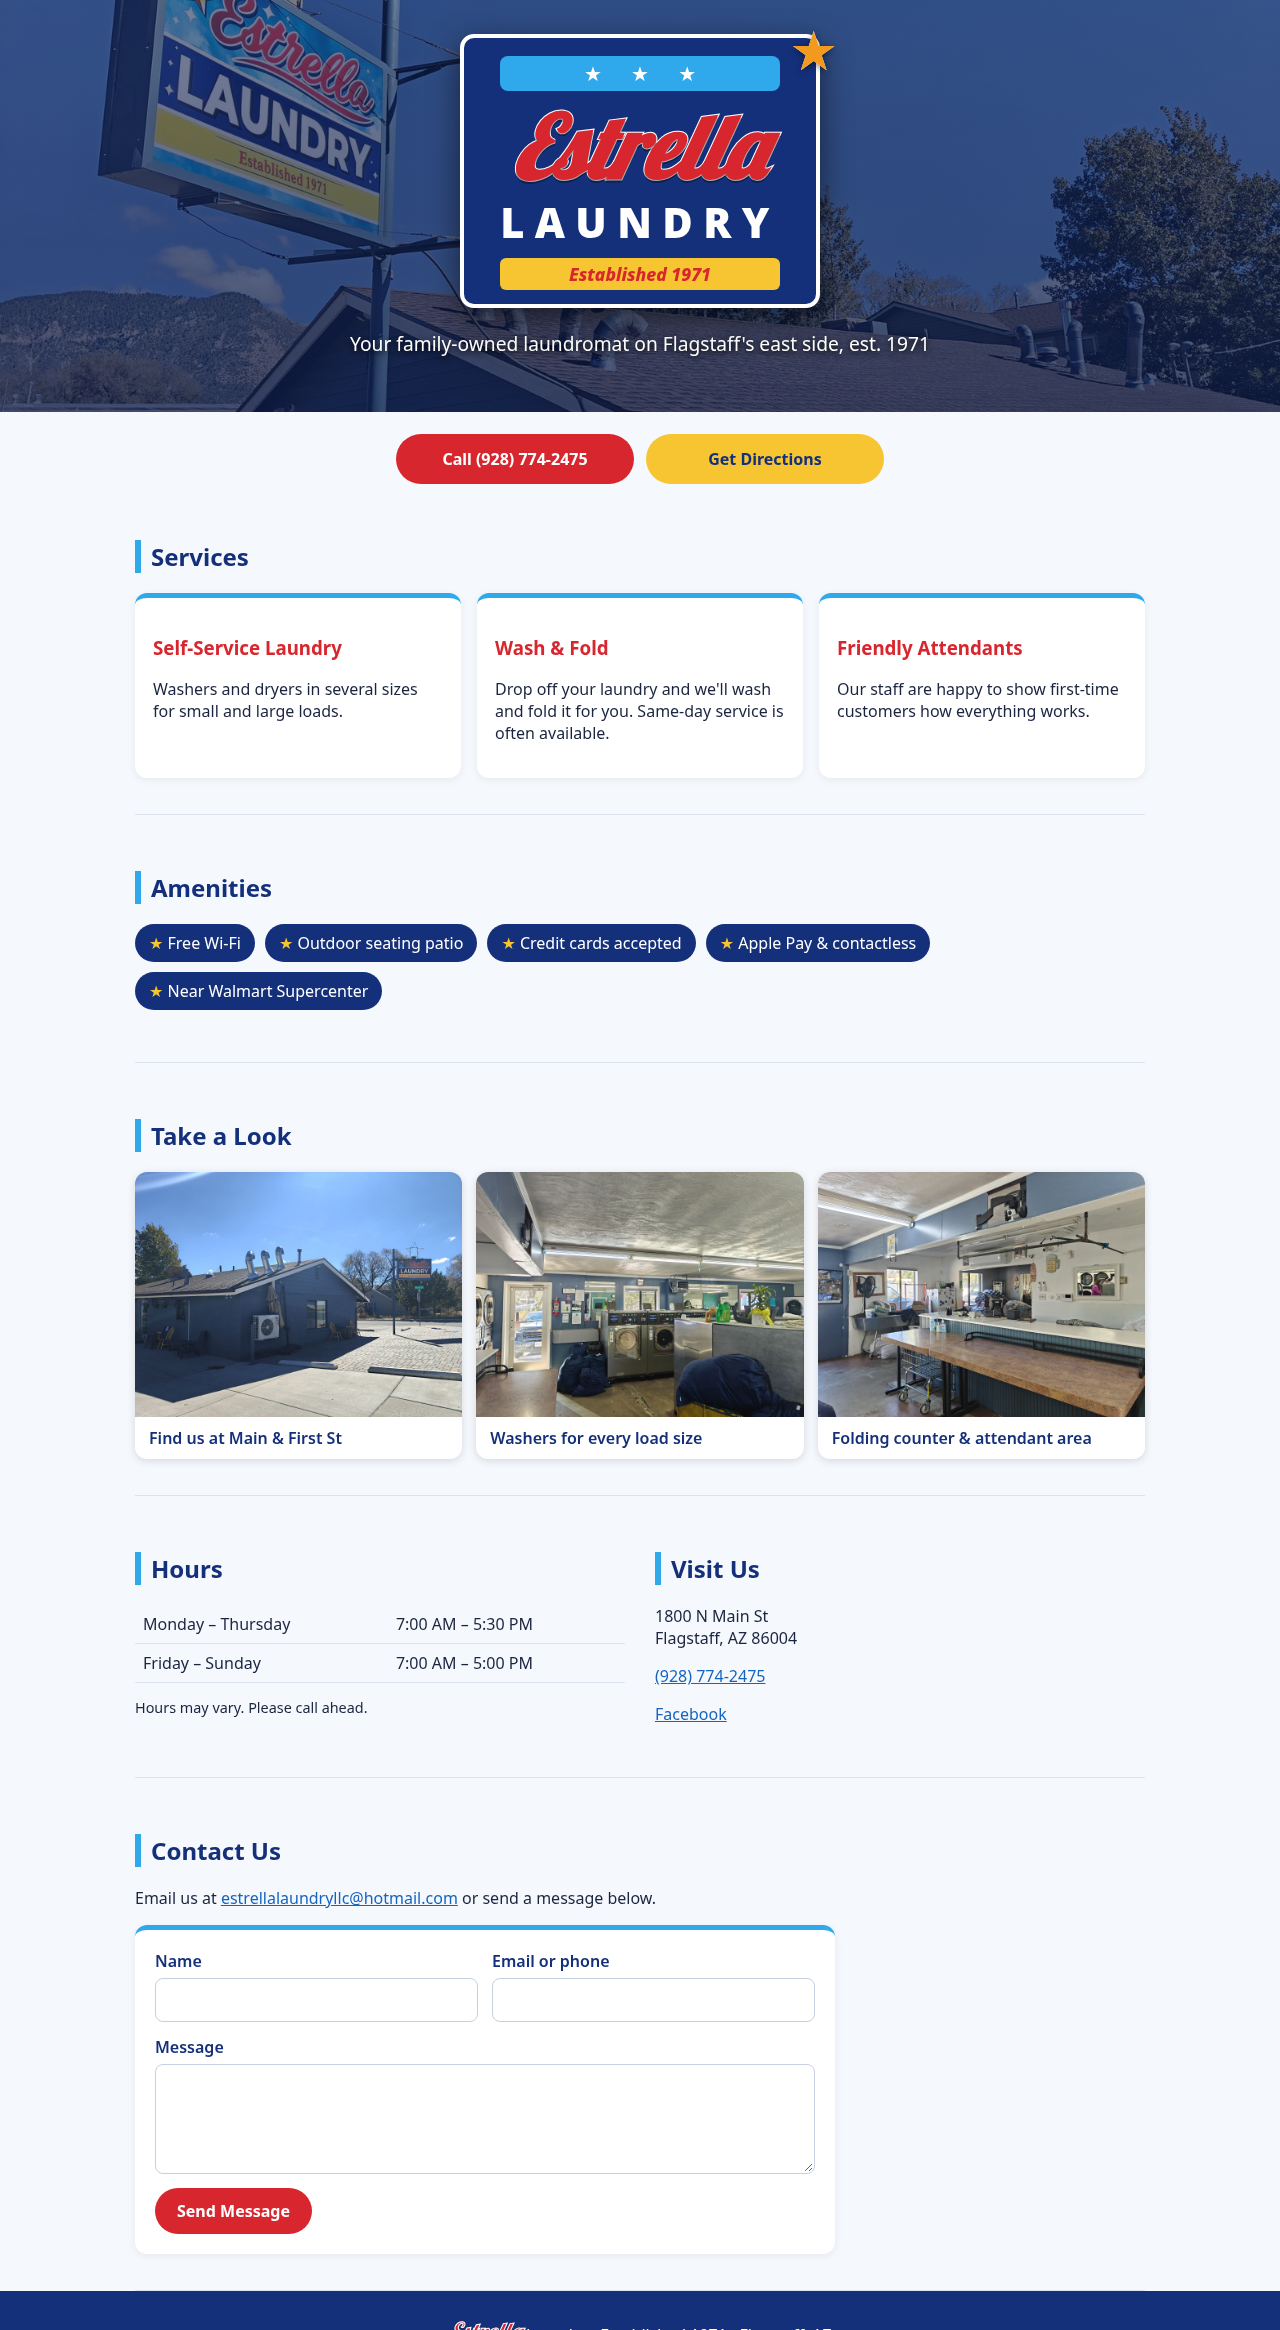
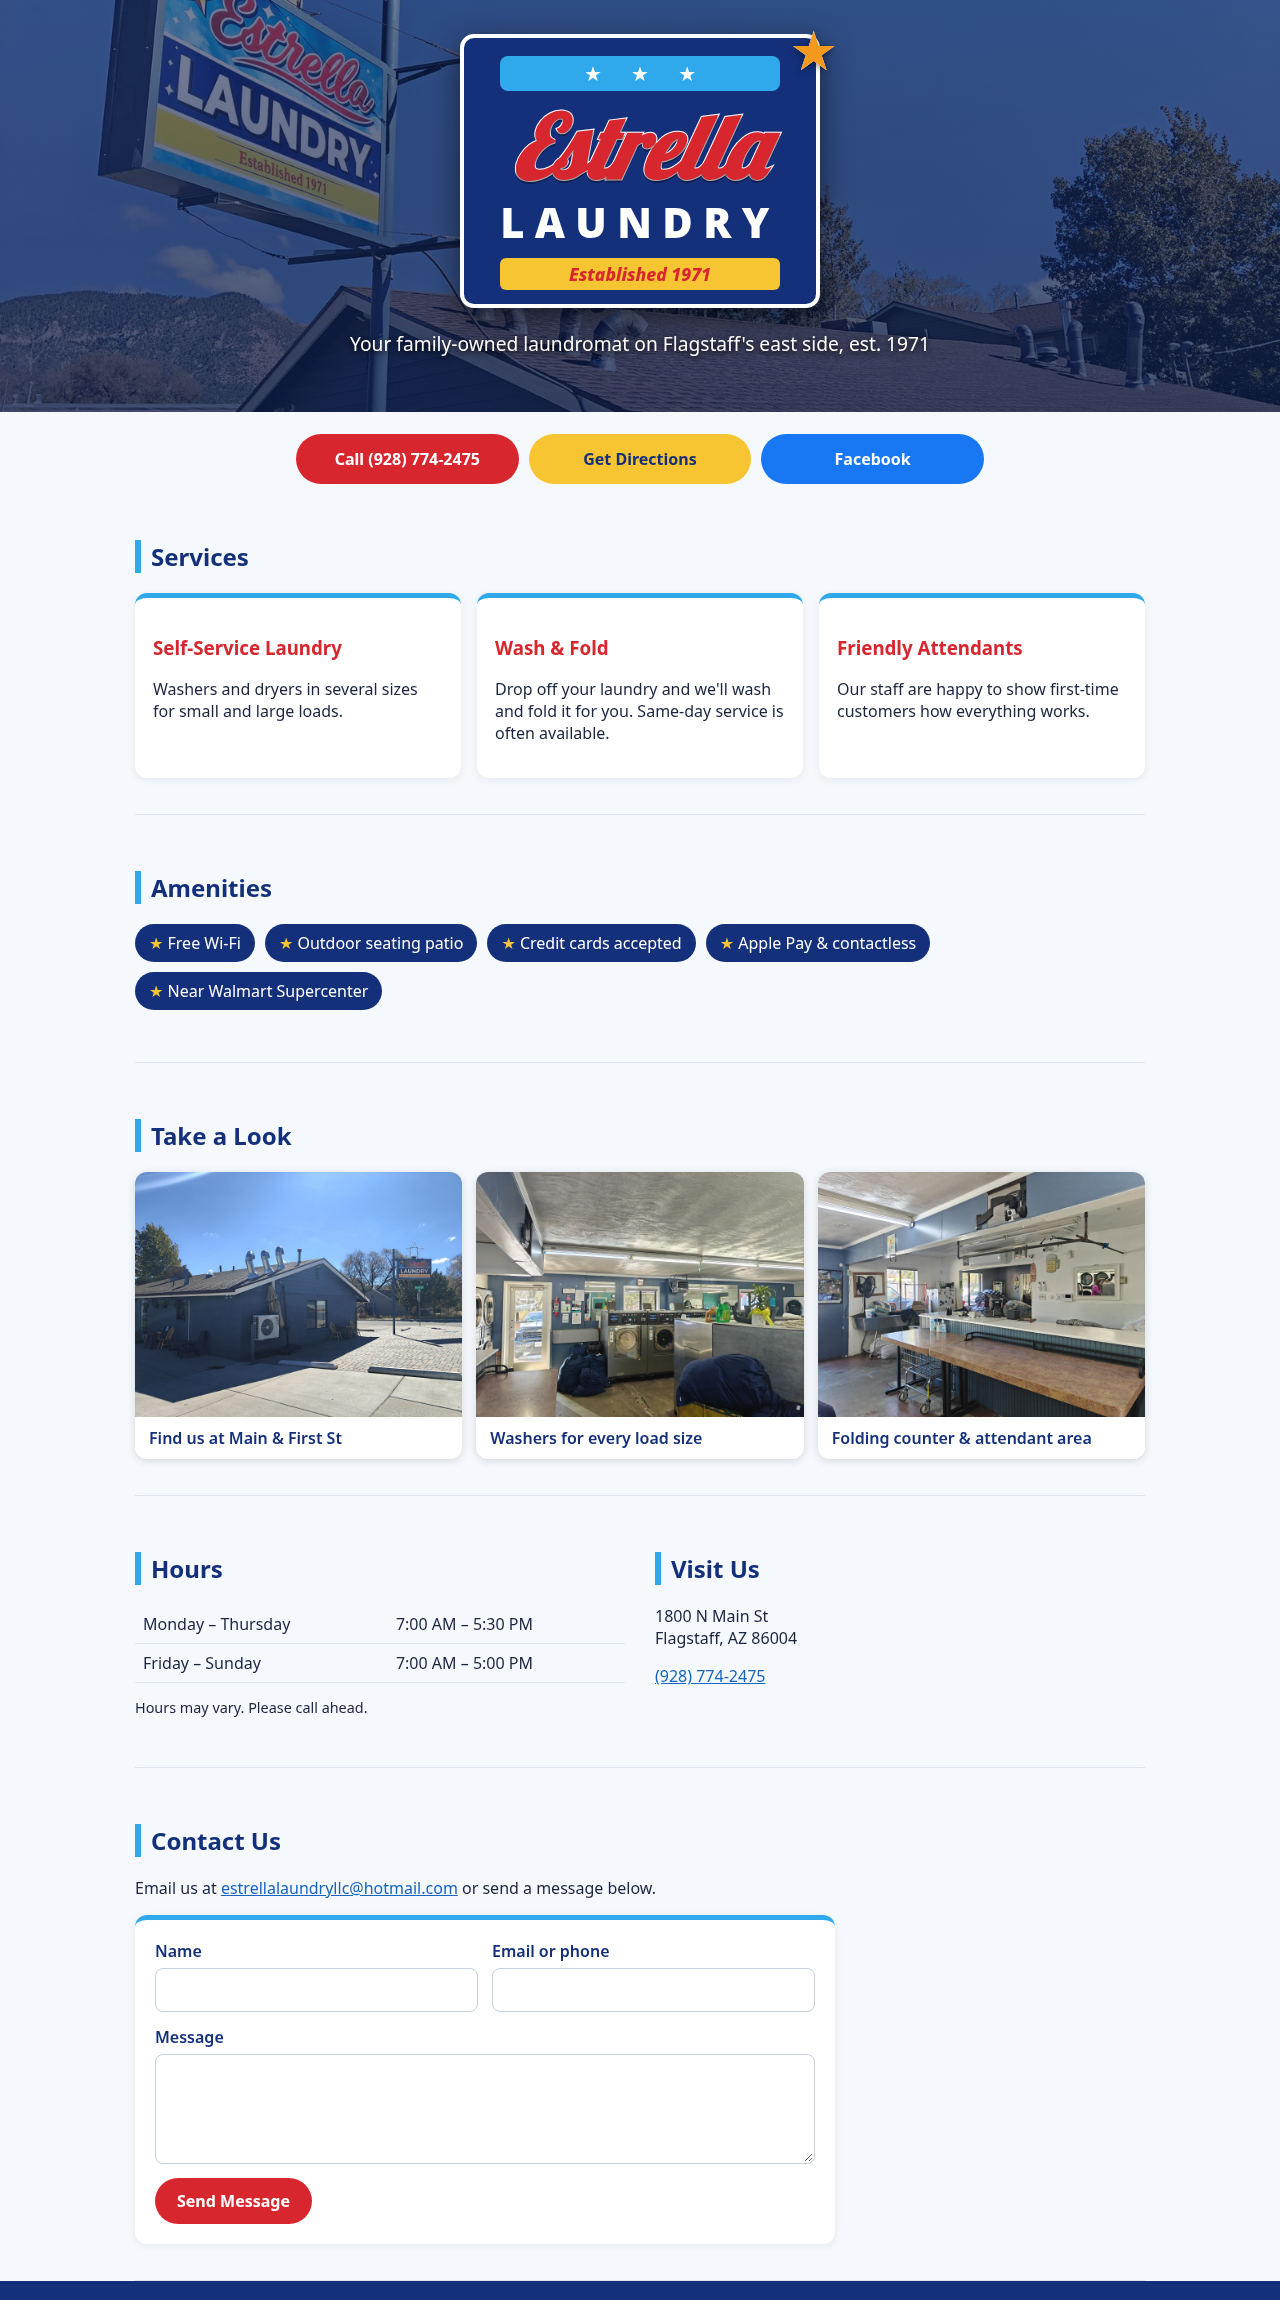
Three CTA buttons (Call, Directions, Facebook); Visit Us shows address and phone only

diff --git a/index.html b/index.html
@@ -9,7 +9,7 @@
 <div class="stars">★ ★ ★</div><div class="word">Estrella</div><div class="laundry">LAUNDRY</div>
 <div class="band">Established 1971</div><div class="gold">★</div></div>
 <p class="tag">Your family-owned laundromat on Flagstaff's east side, est. 1971</p></header>
-<div class="btns cta"><a class="btn" href="tel:+19287742475">Call (928) 774-2475</a><a class="btn alt" href="https://www.google.com/maps/dir/?api=1&destination=1800+N+Main+St,+Flagstaff,+AZ+86004">Get Directions</a></div>
+<div class="btns cta"><a class="btn" href="tel:+19287742475">Call<span class="ph-num"> (928) 774-2475</span></a><a class="btn alt" href="https://www.google.com/maps/dir/?api=1&destination=1800+N+Main+St,+Flagstaff,+AZ+86004">Get Directions</a><a class="btn fb" href="https://www.facebook.com/244273295962405">Facebook</a></div>
 <main class="wrap">
 <section><h2>Services</h2><div class="grid">
 <div class="card"><h3>Self-Service Laundry</h3><p>Washers and dryers in several sizes for small and large loads.</p></div>
@@ -25,8 +25,7 @@
 <section class="two"><div><h2>Hours</h2><table>
 <tr><td>Monday – Thursday</td><td>7:00 AM – 5:30 PM</td></tr><tr><td>Friday – Sunday</td><td>7:00 AM – 5:00 PM</td></tr></table>
 <p class="small">Hours may vary. Please call ahead.</p></div>
-<div><h2>Visit Us</h2><p>1800 N Main St<br>Flagstaff, AZ 86004</p><p><a href="tel:+19287742475">(928) 774-2475</a></p>
-<p><a href="https://facebook.com/244273295962405">Facebook</a></p></div></section>
+<div><h2>Visit Us</h2><p>1800 N Main St<br>Flagstaff, AZ 86004</p><p><a href="tel:+19287742475">(928) 774-2475</a></p></div></section>
 <section id="contact"><h2>Contact Us</h2>
 <p id="thanks" class="thanks">Thanks! Your message was sent. We'll get back to you soon.</p>
 <p>Email us at <a href="mailto:estrellalaundryllc@hotmail.com">estrellalaundryllc@hotmail.com</a> or send a message below.</p>

diff --git a/style.css b/style.css
@@ -28,5 +28,6 @@ figure img{width:100%;aspect-ratio:4/3;object-fit:cover;display:block}figcaption
 .contact button{border:0;cursor:pointer;justify-self:start;font:inherit;font-weight:700}
 .thanks{display:none;background:var(--gold);color:var(--navy);padding:10px 14px;border-radius:8px;font-weight:700}.thanks:target{display:block}
 @media(max-width:600px){.contact{grid-template-columns:1fr}}
-.cta{display:grid;grid-template-columns:1fr 1fr;gap:12px;max-width:520px;margin:22px auto 0;padding:0 16px}
+.cta{display:grid;grid-template-columns:1fr 1fr 1fr;gap:10px;max-width:720px;margin:22px auto 0;padding:0 16px}
 .cta .btn{text-align:center;padding:14px 10px;white-space:nowrap;font-size:clamp(.85rem,3.6vw,1rem)}
+.btn.fb{background:#1877f2;color:#fff}@media(max-width:600px){.ph-num{display:none}.cta{padding:0 10px;gap:8px}}
